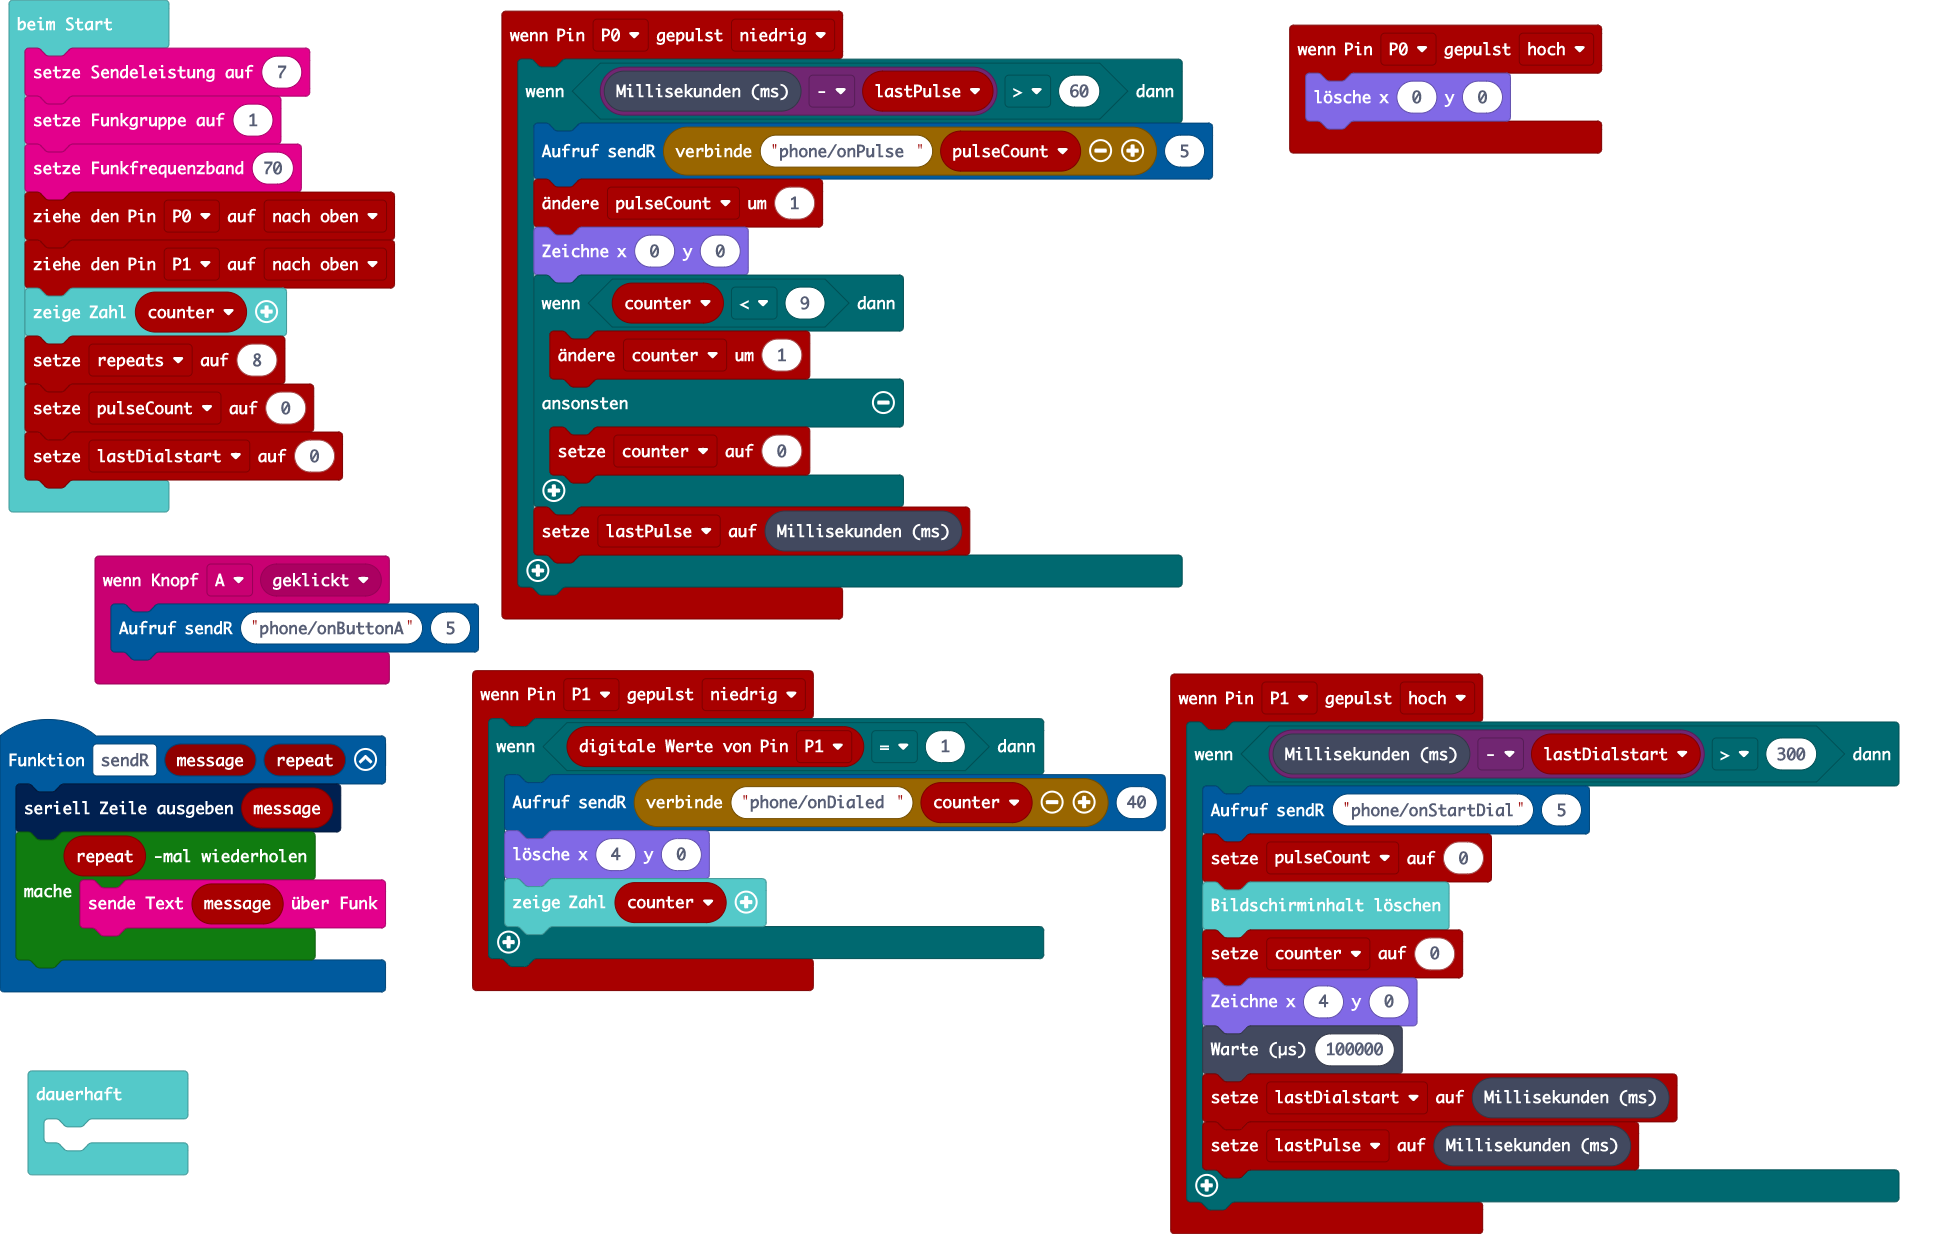
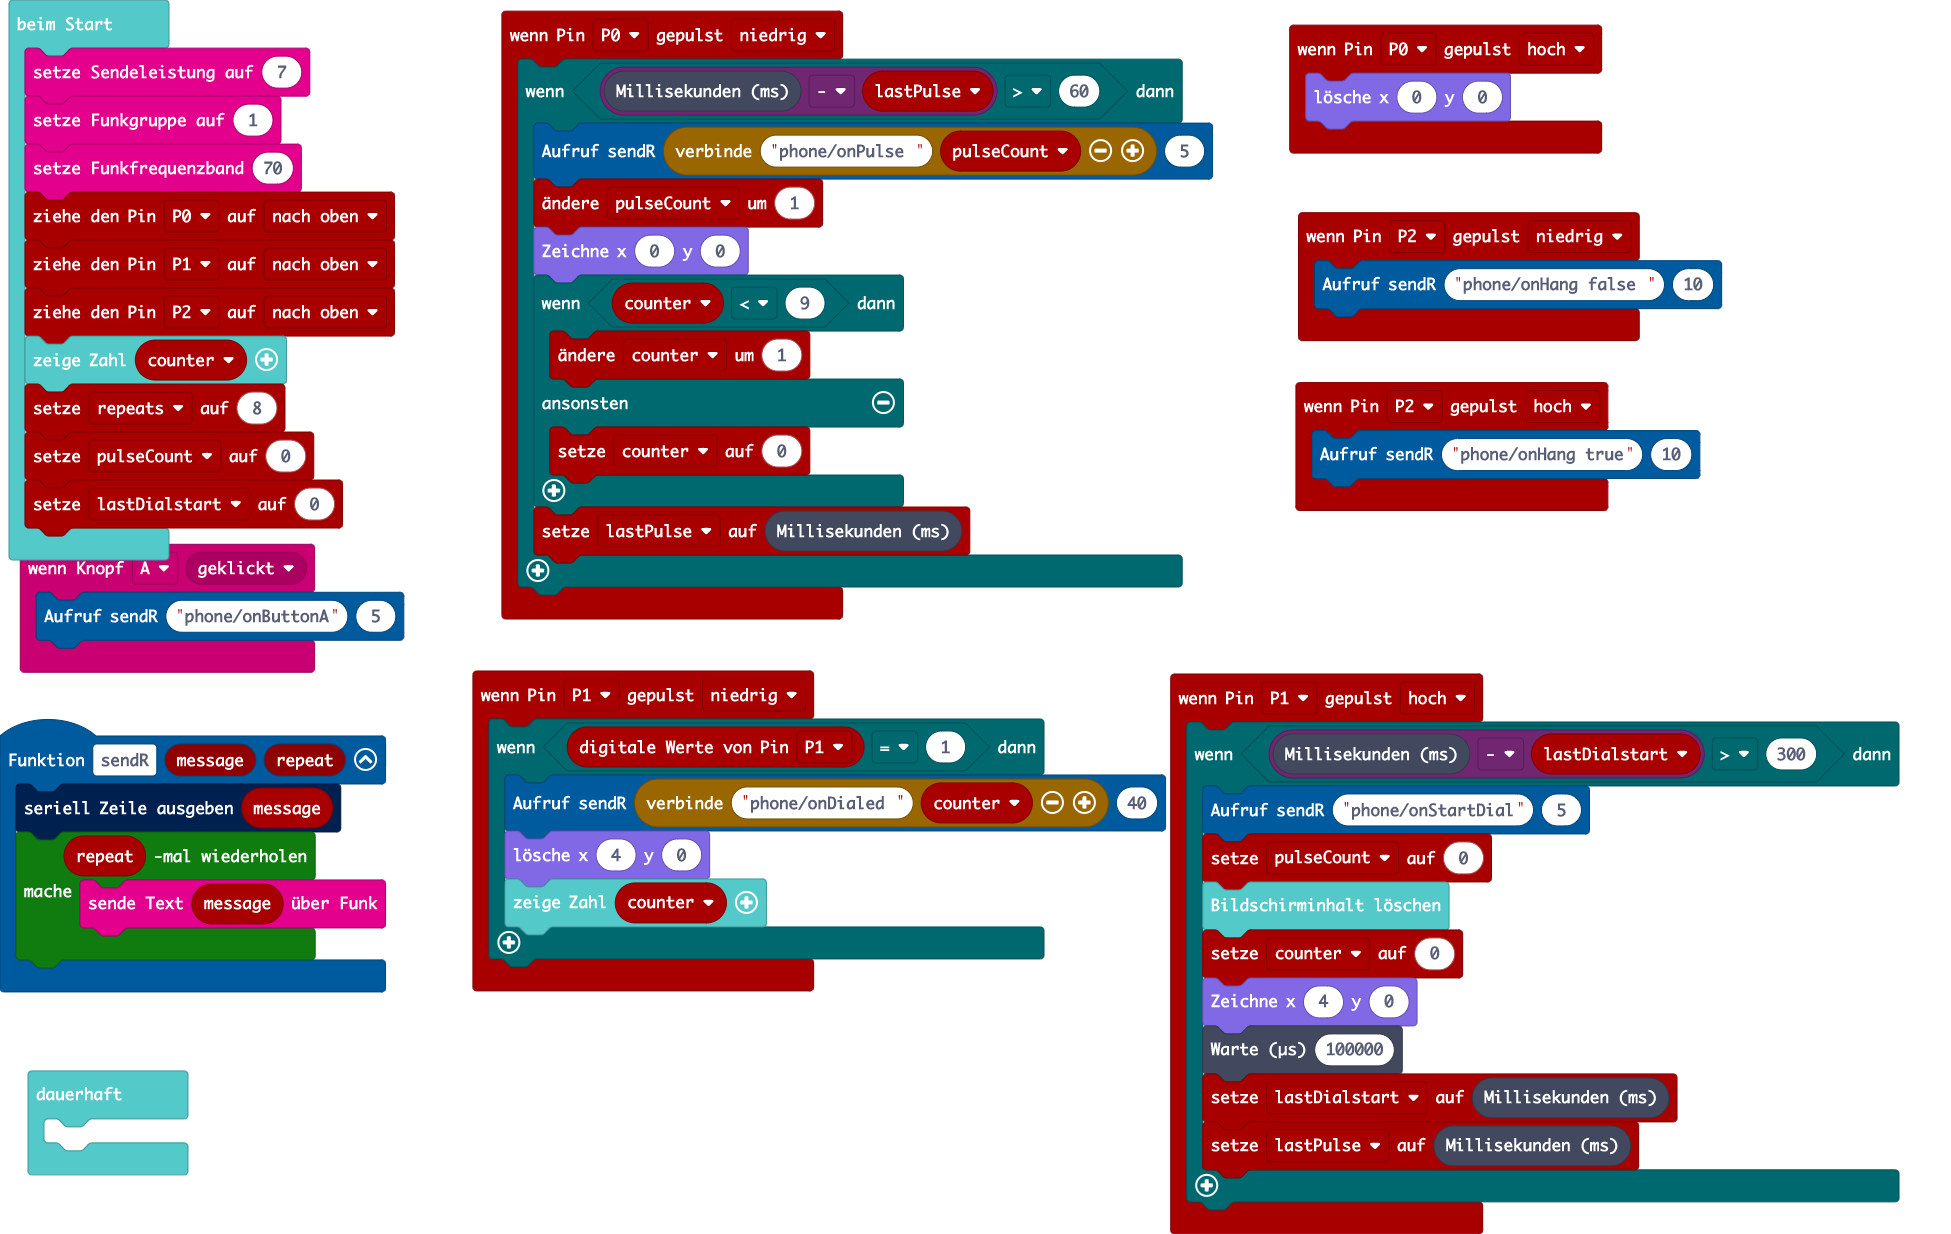
Add hang up contact

diff --git a/main.ts b/main.ts
@@ -4,6 +4,9 @@ enum RadioMessage {
 input.onButtonEvent(Button.A, ButtonEvent.Click, function () {
     sendR("phone/onButtonA", 5)
 })
+pins.onPulsed(DigitalPin.P2, PulseValue.High, function () {
+    sendR("phone/onHang true", 10)
+})
 pins.onPulsed(DigitalPin.P1, PulseValue.Low, function () {
     if (pins.digitalReadPin(DigitalPin.P1) == 1) {
         sendR("phone/onDialed " + counter, 40)
@@ -32,6 +35,9 @@ pins.onPulsed(DigitalPin.P1, PulseValue.High, function () {
 pins.onPulsed(DigitalPin.P0, PulseValue.High, function () {
     led.unplot(0, 0)
 })
+pins.onPulsed(DigitalPin.P2, PulseValue.Low, function () {
+    sendR("phone/onHang false ", 10)
+})
 pins.onPulsed(DigitalPin.P0, PulseValue.Low, function () {
     if (control.millis() - lastPulse > 60) {
         sendR("phone/onPulse " + pulseCount, 5)
@@ -54,6 +60,7 @@ radio.setGroup(1)
 radio.setFrequencyBand(70)
 pins.setPull(DigitalPin.P0, PinPullMode.PullUp)
 pins.setPull(DigitalPin.P1, PinPullMode.PullUp)
+pins.setPull(DigitalPin.P2, PinPullMode.PullUp)
 basic.showNumber(counter)
 let repeats = 8
 pulseCount = 0
